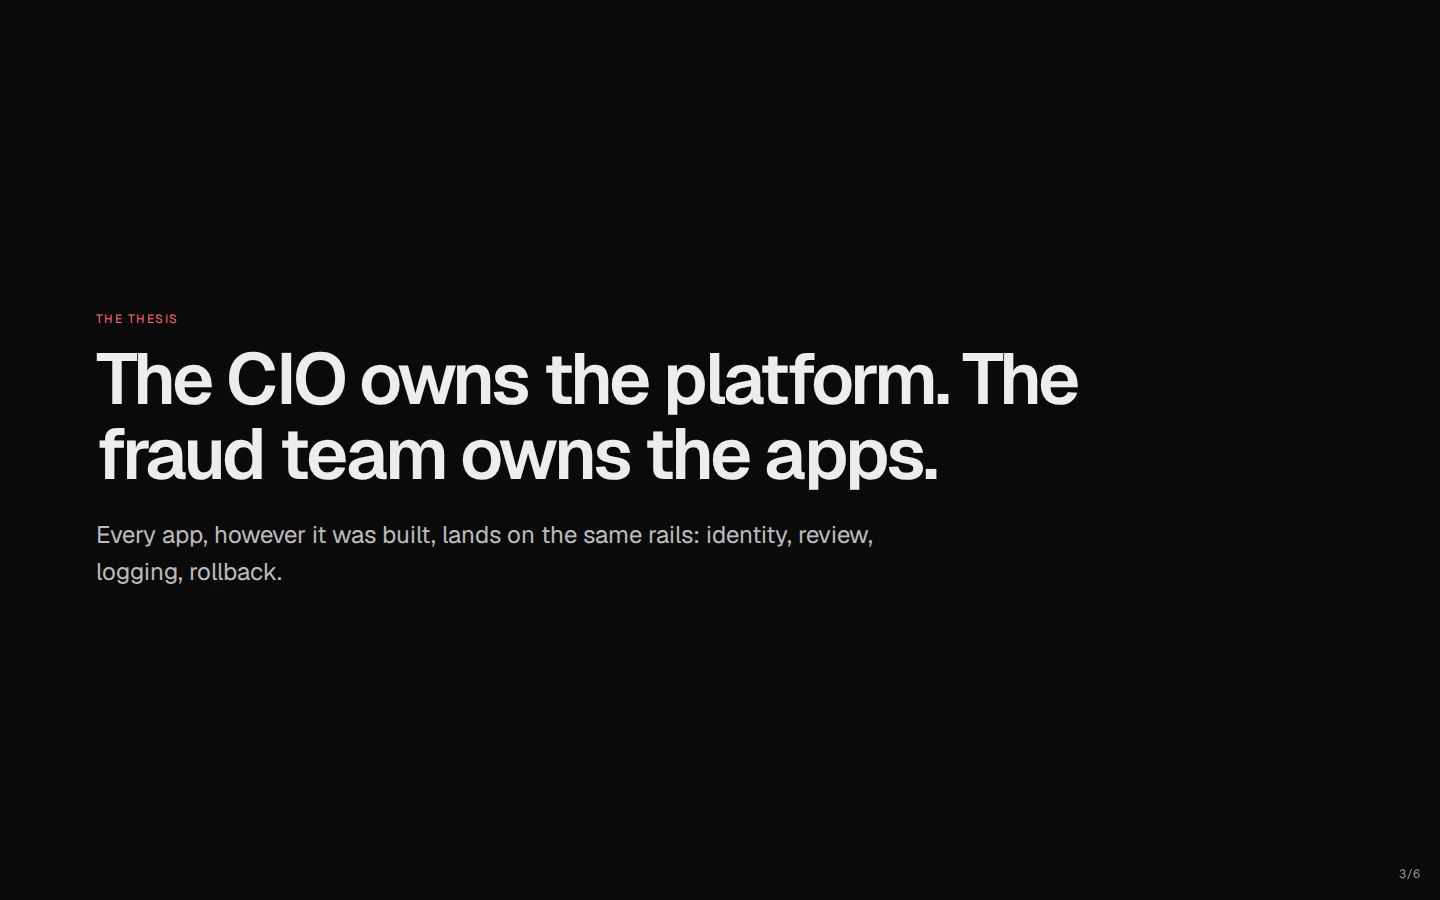
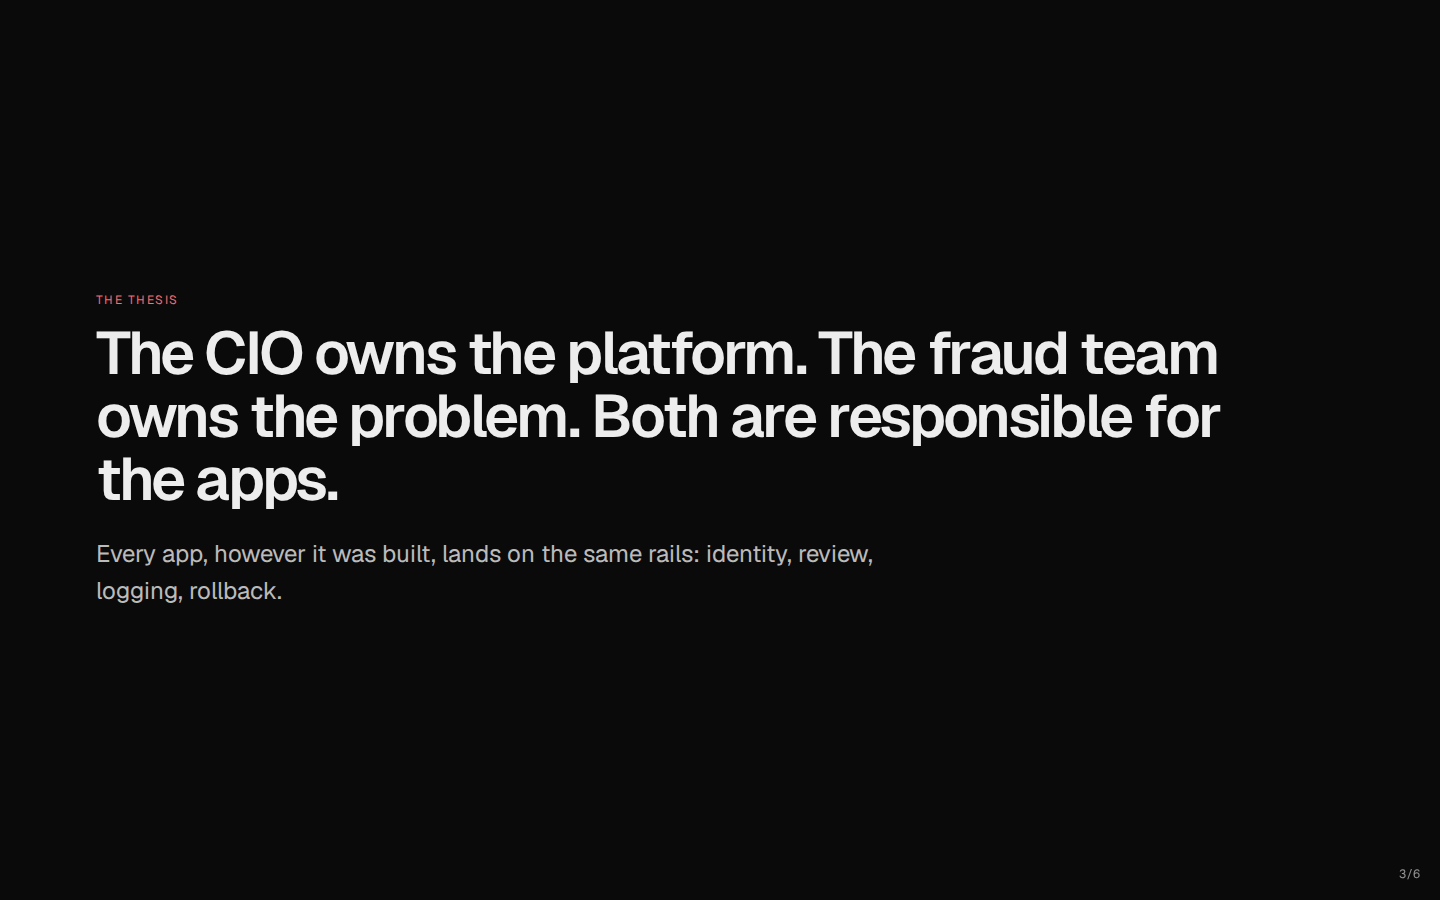
Intro: thesis now 'CIO owns the platform, fraud team owns the problem, both responsible for the apps'; tier row labels on one line
Claude-Session: https://claude.ai/code/session_01H7A5xcNUJUouFfBrebwvkY

Changed region(s): [[0.0625, 0.3111, 0.8438, 0.56], [0.0625, 0.5911, 0.625, 0.6844]]

diff --git a/components/TierTable.tsx b/components/TierTable.tsx
@@ -8,10 +8,11 @@ export function TierTable({ markCurrent = false, large = false }: { markCurrent?
   const text = large ? "text-[15px] leading-[1.45]" : "text-[13px]";
   return (
     <div className="overflow-x-auto">
-      <table className={`w-full min-w-[760px] border-collapse text-left ${text}`}>
+      <table className={`w-full min-w-[820px] border-collapse text-left ${text}`}>
         <thead>
           <tr className="text-[11px] uppercase tracking-[0.08em] text-foreground/60">
-            <th className="w-[130px] py-2 pr-4 font-medium" scope="col">
+            {/* Wide enough that every row label ("Who can open it") sits on one line. */}
+            <th className="w-[190px] py-2 pr-4 font-medium" scope="col">
               <span className="sr-only">Topic</span>
             </th>
             {TIER_COLUMNS.map((c) => {
@@ -32,7 +33,7 @@ export function TierTable({ markCurrent = false, large = false }: { markCurrent?
         <tbody>
           {TIER_ROWS.map((r) => (
             <tr key={r.topic} className="border-t border-border align-top">
-              <th scope="row" className="py-2.5 pr-4 text-[12px] font-medium uppercase tracking-[0.08em] text-foreground/60">
+              <th scope="row" className="whitespace-nowrap py-2.5 pr-4 text-[12px] font-medium uppercase tracking-[0.08em] text-foreground/60">
                 {r.topic}
               </th>
               {TIER_COLUMNS.map((c) => (

diff --git a/app/intro/page.tsx b/app/intro/page.tsx
@@ -64,7 +64,7 @@ export default async function IntroPage() {
 
       <section data-slide className={SLIDE} aria-labelledby="s3">
         <span className={KICKER}>{C.thesis.kicker}</span>
-        <h2 id="s3" className="mb-6 mt-3 max-w-[1100px] text-[38px] font-semibold leading-[1.05] tracking-tightest text-pretty sm:text-[72px]">
+        <h2 id="s3" className="mb-6 mt-3 max-w-[1200px] text-[36px] font-semibold leading-[1.05] tracking-tightest text-pretty sm:text-[60px]">
           {C.thesis.title}
         </h2>
         <p className="m-0 max-w-[820px] text-[18px] text-foreground/80 text-pretty sm:text-[24px]">{C.thesis.sub}</p>

diff --git a/lib/introCopy.ts b/lib/introCopy.ts
@@ -25,7 +25,7 @@ export const INTRO = {
   },
   thesis: {
     kicker: "The thesis",
-    title: "The CIO owns the platform. The fraud team owns the apps.",
+    title: "The CIO owns the platform. The fraud team owns the problem. Both are responsible for the apps.",
     sub: "Every app, however it was built, lands on the same rails: identity, review, logging, rollback.",
   },
   see: {

diff --git a/docs/demo/demo-script.md b/docs/demo/demo-script.md
@@ -15,7 +15,7 @@ Sources for every Vercel claim: `docs/demo/vercel-positioning.md` and
 | Shared worry | **APRA.** AI in *development* (agents and investigators writing code) and in *usage* (AI inside the tool). |
 
 **The thesis, said early and repeated at the close:** "You don't have to choose between the
-fraud team's speed and IT's control. The CIO owns the platform; the fraud team owns the apps.
+fraud team's speed and IT's control. The CIO owns the platform. The fraud team owns the problem. Both are responsible for the apps.
 Every app, however it was built, lands on the same rails: identity, review, logging, rollback."
 
 **Three tiers, stated once in Act 2 and again at the close.** Everything they see live runs on
@@ -322,4 +322,4 @@ approval (GitHub branch protection does).
 | 1:45–3:00 | Act 2 | Login wall; `/governance` (Sydney, approved models, no training, no key); gateway logs |
 | 3:00–3:50 | Act 3 | APRA change-control quote; the PR's checks and protected preview |
 | 3:50–4:35 | Act 4 | One line of the red-team story; one blocked question (SCOPE CHECK card); "a second model checks every question, and every app inherits it" |
-| 4:35–5:00 | Close | "CIO owns the rails, fraud owns the apps"; Connect as next |
+| 4:35–5:00 | Close | "CIO owns the platform, fraud owns the problem, both own the apps"; Connect as next |
